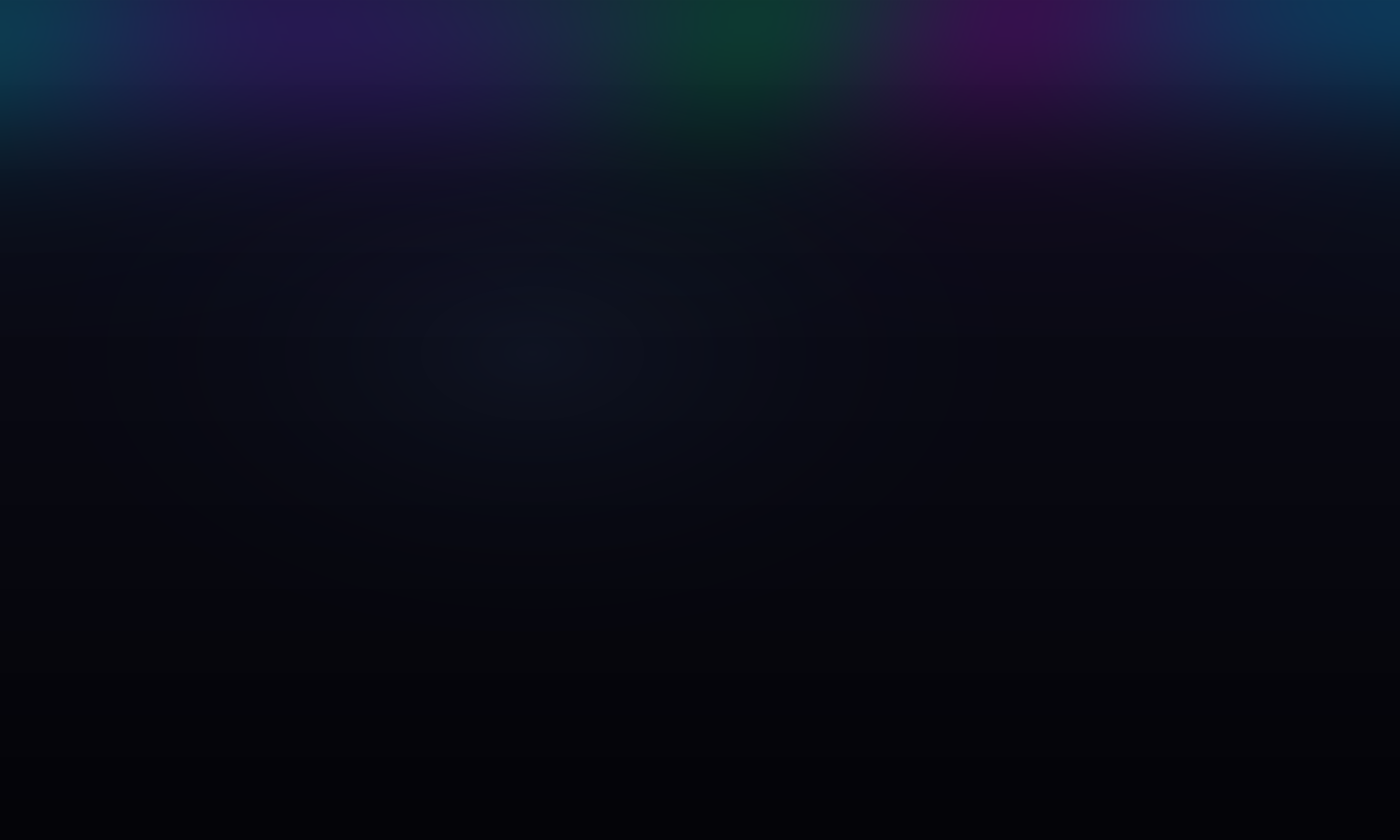
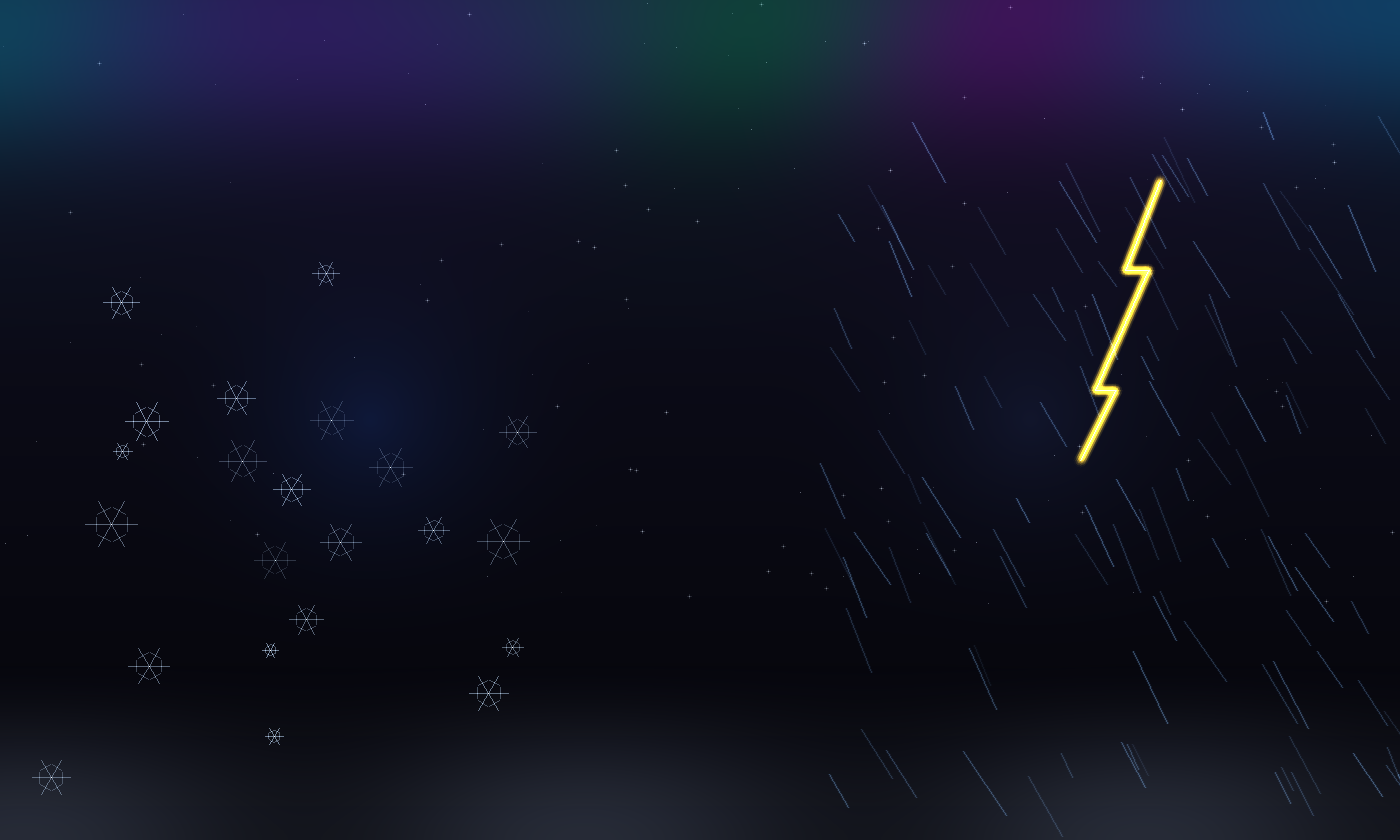
version 1.01b
- Settings footer (About/Onboarding/What's New + version info) on every tab
- Splash screen "Don't show on startup" checkbox with UserDefaults persistence
- Fix splash/onboarding/whats-new windows not activating on launch (NSApp.activate)
- Adaptive Quality: CPU threshold halves particles, battery threshold drops to 30fps
- DMG background: weather showcase (aurora, snowflakes, rain, lightning, fog)
- Build script: --bg-only and --dmg-only flags, build number in preflight

diff --git a/wthrr/Views/SettingsWindowView.swift b/wthrr/Views/SettingsWindowView.swift
@@ -80,33 +80,38 @@ struct SettingsWindowView: View {
             Divider()
 
             // ── Persistent footer — visible on every tab ──────
-            HStack(spacing: 8) {
-                Spacer()
-                Button {
-                    AppDelegate.shared?.showSplashScreen(manual: true)
-                } label: {
-                    Label("About", systemImage: "info.circle").font(.caption)
-                }
-                .buttonStyle(.bordered)
-                .controlSize(.small)
+            VStack(spacing: 6) {
+                // App info row: version + GitHub link
+                AboutView()
 
-                Button {
-                    AppDelegate.shared?.showOnboarding()
-                } label: {
-                    Label("Onboarding", systemImage: "hand.wave").font(.caption)
-                }
-                .buttonStyle(.bordered)
-                .controlSize(.small)
+                // Action buttons row
+                HStack(spacing: 8) {
+                    Button {
+                        AppDelegate.shared?.showSplashScreen(manual: true)
+                    } label: {
+                        Label("About", systemImage: "info.circle").font(.caption)
+                    }
+                    .buttonStyle(.bordered)
+                    .controlSize(.small)
 
-                Button {
-                    AppDelegate.shared?.showWhatsNew()
-                } label: {
-                    Label("What's New", systemImage: "sparkles").font(.caption)
+                    Button {
+                        AppDelegate.shared?.showOnboarding()
+                    } label: {
+                        Label("Onboarding", systemImage: "hand.wave").font(.caption)
+                    }
+                    .buttonStyle(.bordered)
+                    .controlSize(.small)
+
+                    Button {
+                        AppDelegate.shared?.showWhatsNew()
+                    } label: {
+                        Label("What's New", systemImage: "sparkles").font(.caption)
+                    }
+                    .buttonStyle(.bordered)
+                    .controlSize(.small)
                 }
-                .buttonStyle(.bordered)
-                .controlSize(.small)
-                Spacer()
             }
+            .frame(maxWidth: .infinity)
             .padding(.vertical, 10)
         }
         .frame(width: 520, height: 700)
@@ -491,8 +496,6 @@ private struct PresetsTab: View {
 /// System integration, automation, and performance options.
 /// Covers Launch at Login, Seasonal Weather, Night Dimming, Low Power Mode,
 /// and Adaptive Quality (CPU + battery throttling with live status indicator).
-/// Also contains an About/links row with buttons for About, Onboarding,
-/// and What's New.
 private struct BehaviorTab: View {
     @Environment(WeatherSettings.self) private var settings
     @State private var launchAtLogin: Bool = (SMAppService.mainApp.status == .enabled)

diff --git a/wthrr/Models/WeatherSettings.swift b/wthrr/Models/WeatherSettings.swift
@@ -162,6 +162,12 @@ class WeatherSettings {
         didSet { UserDefaults.standard.set(batteryThreshold, forKey: "batteryThreshold") }
     }
 
+    /// When true, the splash screen is shown automatically on every launch.
+    /// Set to false via the "Don't show on startup" checkbox in the splash screen.
+    var showSplashOnStartup: Bool {
+        didSet { UserDefaults.standard.set(showSplashOnStartup, forKey: "showSplashOnStartup") }
+    }
+
     // MARK: Live weather
 
     /// When true, Open-Meteo pulls real conditions and auto-applies weather type + intensity.
@@ -347,6 +353,10 @@ class WeatherSettings {
 
         let savedBattThreshold = UserDefaults.standard.integer(forKey: "batteryThreshold")
         batteryThreshold = savedBattThreshold > 0 ? savedBattThreshold : 20
+
+        showSplashOnStartup = UserDefaults.standard.object(forKey: "showSplashOnStartup") != nil
+            ? UserDefaults.standard.bool(forKey: "showSplashOnStartup")
+            : true
 
         let savedMelt = UserDefaults.standard.double(forKey: "snowMeltRate")
         snowMeltRate = savedMelt > 0 ? savedMelt : 0.08

diff --git a/wthrr/App/wthrrApp.swift b/wthrr/App/wthrrApp.swift
@@ -77,7 +77,7 @@ class AppDelegate: NSObject, NSApplicationDelegate {
             showOnboarding()
         } else if WhatsNewView.shouldShow {
             showWhatsNew()
-        } else {
+        } else if WeatherSettings.shared.showSplashOnStartup {
             showSplashScreen()
         }
 
@@ -375,6 +375,7 @@ class AppDelegate: NSObject, NSApplicationDelegate {
 
         window.contentView = NSHostingView(rootView: splashView)
         window.makeKeyAndOrderFront(nil)
+        NSApp.activate(ignoringOtherApps: true)
         splashWindow = window
     }
 
@@ -414,6 +415,7 @@ class AppDelegate: NSObject, NSApplicationDelegate {
 
         window.contentView = NSHostingView(rootView: onboardingView)
         window.makeKeyAndOrderFront(nil)
+        NSApp.activate(ignoringOtherApps: true)
         splashWindow = window
     }
 
@@ -439,6 +441,7 @@ class AppDelegate: NSObject, NSApplicationDelegate {
 
         window.contentView = NSHostingView(rootView: whatsNewView)
         window.makeKeyAndOrderFront(nil)
+        NSApp.activate(ignoringOtherApps: true)
         splashWindow = window
     }
 

diff --git a/wthrr/Views/SplashView.swift b/wthrr/Views/SplashView.swift
@@ -163,6 +163,19 @@ struct SplashView: View {
             Divider()
                 .padding(.horizontal, 28)
 
+            // "Don't show on startup" toggle — always visible, persisted via WeatherSettings.
+            Toggle(isOn: Binding(
+                get: { !settings.showSplashOnStartup },
+                set: { settings.showSplashOnStartup = !$0 }
+            )) {
+                Text("Don't show on startup")
+                    .font(.system(size: 11, design: .rounded))
+                    .foregroundStyle(.secondary)
+            }
+            .toggleStyle(.checkbox)
+            .padding(.horizontal, 28)
+            .padding(.bottom, 4)
+
             // Action buttons — What's New + Close (with countdown).
             // Rendered outside the `appeared`-gated opacity blocks so both buttons
             // are immediately interactive regardless of the entrance animation state.

diff --git a/release-notes/1.01b.md b/release-notes/1.01b.md
@@ -1,0 +1,16 @@
+# wthrr 1.01b — What's New
+
+## Settings & UI
+- **Settings footer on every tab** — About, Onboarding, and What's New buttons now appear at the bottom of all four settings panels (Appearance, Environment, Presets, Behavior), with app version and GitHub link for quick reference
+- **App version in popover** — version, build number, and GitHub link shown in the menu bar popover footer for consistency
+
+## Splash Screen
+- **Don't show on startup** — new checkbox on the splash screen lets you disable the startup splash; preference is remembered across launches
+- **Startup splash fix** — fixed splash screen buttons not rendering until mouse hover on launch (window now activates correctly on all macOS versions)
+
+## Performance
+- **Adaptive Quality** — new Behavior setting that automatically halves particle count when CPU exceeds a configurable threshold (default 70%) and drops to 30 fps when battery is below a threshold (default 20%) while unplugged; live status indicator shows current state
+
+## Scripts
+- **DMG background** — installer window now features a weather showcase background: aurora gradient, snowflakes, rain streaks, lightning bolt, and fog wisps
+- **Build script improvements** — `--bg-only` and `--dmg-only` flags for faster iteration; shows build number in preflight output
